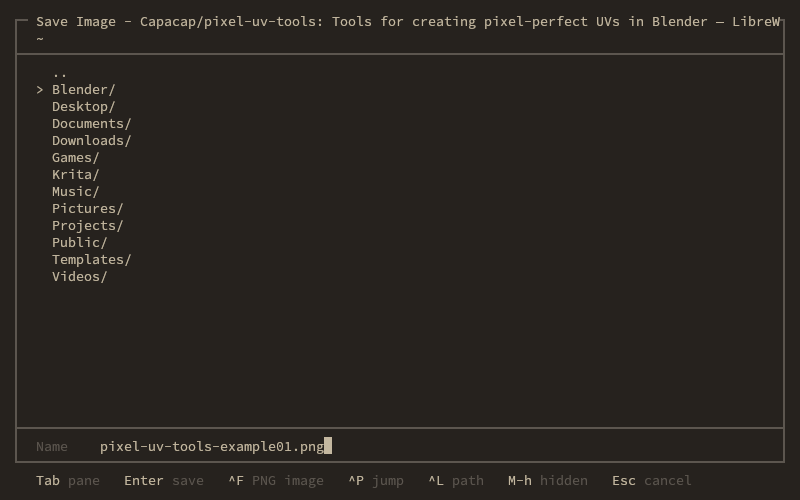
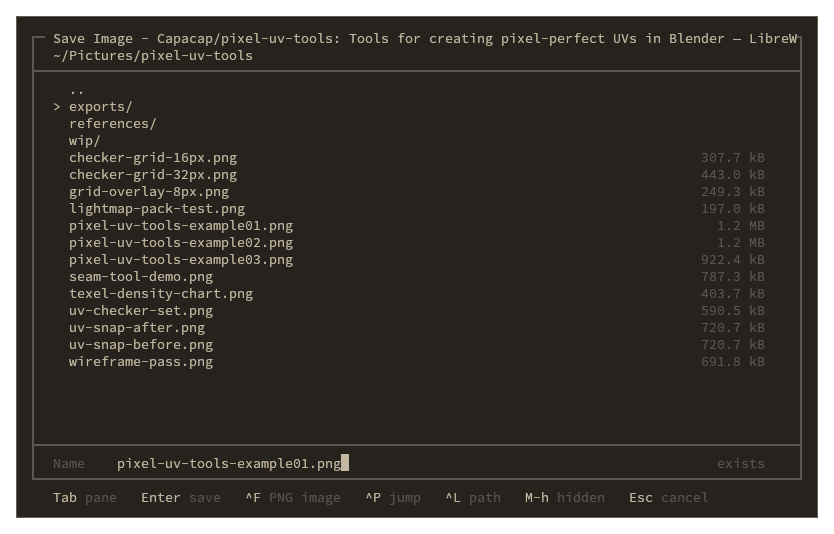
Retake the screenshot somewhere there is something to see
The first one was a save dialog pointed at $HOME: twelve directories, no
files, and a third of the window empty. It showed that a file browser
exists. What it did not show is any of what Usage spends its paragraphs
on.

This one is the same dialog in a directory of example renders. Fifteen
entries with sizes, the application's PNG filter visibly holding back the
.blend and the notes beside them, and the Name field saying `exists`
about the name the browser arrived with. The window title is still the
one LibreWolf sends, which is the part that cannot be argued in prose:
something asked for this.

Framed with the 1px #665d52 border niri actually draws, and transparent
margin so the window has an edge on both a light and a dark page.

Changed region(s): [[0.0, 0.0, 1.0, 1.0], [0.8438, 0.27, 0.9062, 0.69]]

diff --git a/README.md b/README.md
@@ -10,9 +10,10 @@ stops. No fuzzy filter, no typing a path, no jumping to the directory you
 were in five minutes ago. pickout puts those back, and keeps the browser
 and the Name field on one screen so saving stays a single question.
 
-![Saving an image from a browser: the listing and the Name field on one
-screen, with the application's own PNG filter named in the
-footer](https://raw.githubusercontent.com/Capacap/pickout/main/.github/screenshot.png)
+![A save dialog opened by a browser: the listing with file sizes, the
+application's own PNG filter named in the footer, and the Name field
+warning that the name it was given already
+exists](https://raw.githubusercontent.com/Capacap/pickout/main/.github/screenshot.png)
 
 ## Usage
 
